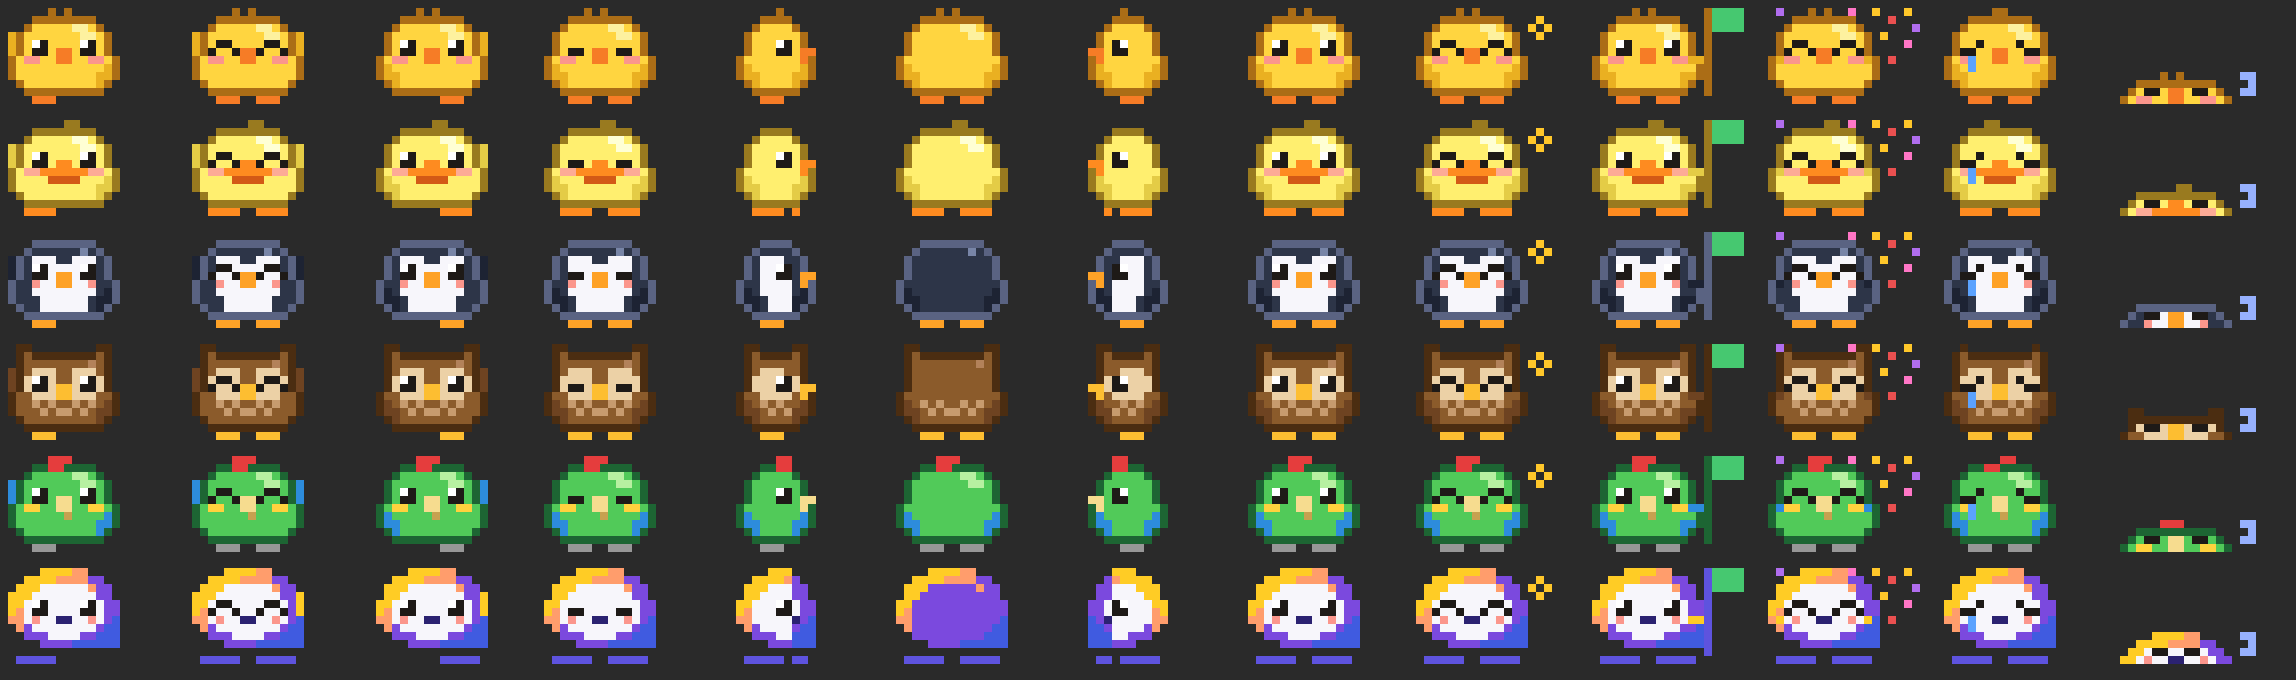
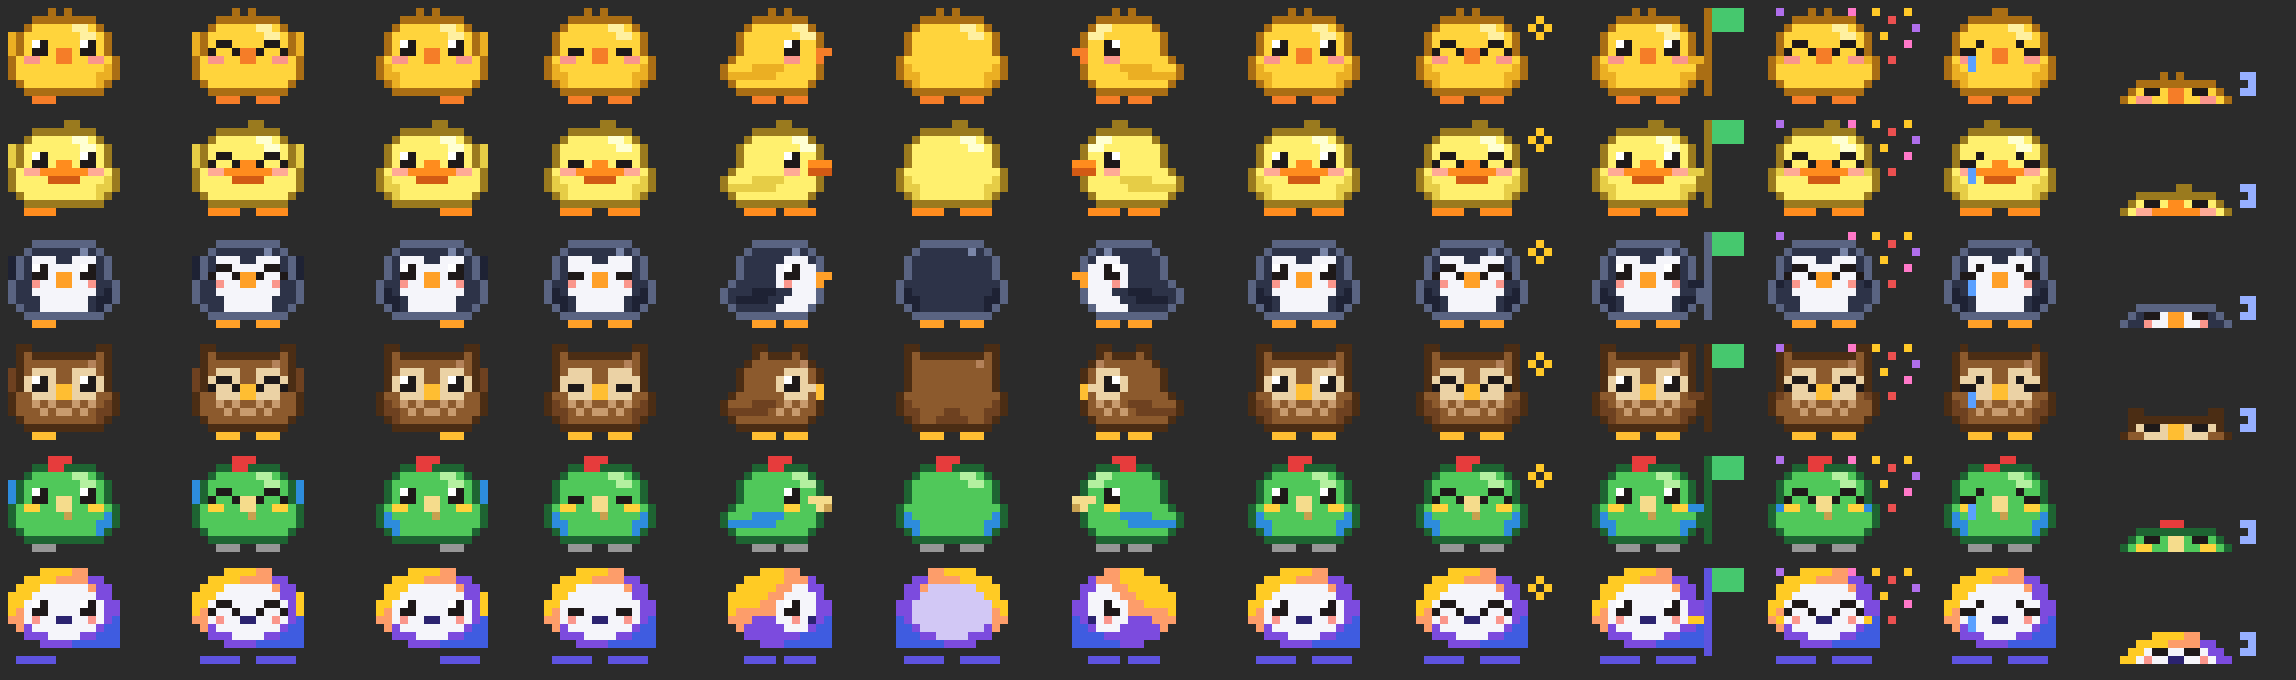
转圈改用手画的侧身和背面

diff --git a/hooks/sprites.ts b/hooks/sprites.ts
@@ -32,8 +32,10 @@ type Species = {
   body: string
   /** 难过时替换第 0 行（呆毛耷拉） */
   sadTop?: string
-  /** 脸是平的、没有尖嘴：侧身时嘴画在脸里，不伸出去 */
-  flatFace?: boolean
+  /** 转圈时的侧身（朝右），12 行 × 14 列；朝左的那一面镜像得到 */
+  side: string[]
+  /** 转圈时的背面；不画就用底图抹掉五官、脸换成身体色 */
+  back?: string[]
   palette: Record<string, number>
 }
 
@@ -71,6 +73,20 @@ export const SPECIES = {
       '.DYKKYAAYKKYD.',
       'DYPPYYAAYYPPYD',
     ],
+    side: [
+      '......D.D.....',
+      '....DDDDDDD...',
+      '...DYYYYYLLD..',
+      '..DYYYYYYYLLD.',
+      '..DYYYYYHKYYD.',
+      '..DYYYYYKKYYAA', // 喙伸出去
+      '.DYYYYYYPPYYA.',
+      'DYYYEEEEYYYYD.', // 翅膀贴在身体侧面
+      'DEEEEEEYYYYYD.',
+      '.DYYYYYYYYYD..',
+      '..DDDDDDDDD...',
+      '....AAA.AAA...',
+    ],
   },
   duck: {
     name: '小鸭',
@@ -106,6 +122,20 @@ export const SPECIES = {
       '.DYKKYAAYKKYD.',
       'DYPPAAAAAAPPYD',
     ],
+    side: [
+      '.......DD.....',
+      '....DDDDDDD...',
+      '...DYYYYYLLD..',
+      '..DYYYYYYYLLD.',
+      '..DYYYYYHKYYD.',
+      '..DYYYYYKKYAAA', // 扁嘴伸出去
+      '.DYYYYYYPPYOOO',
+      'DYYYEEEEYYYYD.',
+      'DEEEEEEYYYYYD.',
+      '.DYYYYYYYYYD..',
+      '..DDDDDDDDD...',
+      '...AAAA.AAAA..',
+    ],
   },
   penguin: {
     name: '企鹅',
@@ -139,6 +169,20 @@ export const SPECIES = {
       '..DDDDDDDDDD..',
       '.DNKKWAAWKKND.',
       'DNNPWWAAWWPNND',
+    ],
+    side: [
+      '..............',
+      '....DDDDDDD...',
+      '...DNNNNNLND..',
+      '..DNNNNNWWWND.',
+      '..DNNNNWHKWWD.',
+      '..DNNNNWKKWWAA',
+      '.DNNNNNWPWWWA.',
+      'DNNNEEENNWWWD.', // 鳍贴在黑背上，白肚皮朝前
+      'DNEEEENNWWWWD.',
+      '.DNNNNNWWWWD..',
+      '..DDDDDDDDD...',
+      '....AAA.AAA...',
     ],
   },
   owl: {
@@ -174,6 +218,35 @@ export const SPECIES = {
       '.DDDDDDDDDDDD.',
       '.DTKKTAATKKTD.',
       'DGGTTTAATTTGGD',
+    ],
+    side: [
+      '....DD...DD...',
+      '....DGDDDGD...',
+      '...DGGGGGGLD..',
+      '..DGGGGGTTTGD.',
+      '..DGGGGTHKTGD.', // 脸盘只露一半
+      '..DGGGGTKKTTA.',
+      '.DGGGGGGTTTGA.',
+      'DGGGEEEGVGVGD.',
+      'DEEEEEGVGVGGD.',
+      '.DGGGGGGGGGD..',
+      '..DDDDDDDDD...',
+      '....AAA.AAA...',
+    ],
+    // 背面没有脸盘和胸前斑点，底下露出尾羽
+    back: [
+      '.DD........DD.',
+      '.DGDDDDDDDDGD.',
+      '.DGGGGGGGGLGD.',
+      '.DGGGGGGGGGGD.',
+      '.DGGGGGGGGGGD.',
+      '.DGGGGGGGGGGD.',
+      'DGGGGGGGGGGGGD',
+      'DEGGGGGGGGGGED',
+      'DEEGGGEEGGGEED',
+      '.DEGGEEEEGGED.',
+      '..DDDDDDDDDD..',
+      '...AAA..AAA...',
     ],
   },
   parrot: {
@@ -212,12 +285,25 @@ export const SPECIES = {
       '.DGKKGAAGKKGD.',
       'DGPPGGAAGGPPGD',
     ],
+    side: [
+      '......QQQ.....',
+      '....DDQQDDD...',
+      '...DGGGGGLLD..',
+      '..DGGGGGGGLLD.',
+      '..DGGGGGHKGGD.',
+      '..DGGGGGKKGAAA', // 弯钩嘴，尖往下勾
+      '.DGGGGGGPPGGAO',
+      'DGGGEEEEGGGGD.',
+      'DEEEEEEGGGGGD.',
+      '.DGGGGGGGGGD..',
+      '..DDDDDDDDD...',
+      '....XXX.XXX...',
+    ],
   },
   alphaq: {
     name: 'alphaQ',
     face: 'W',
     body: 'U',
-    flatFace: true,
     palette: {
       D: 0x5e53df, // 旗杆
       Y: 0xffcb24, // 黄
@@ -226,6 +312,7 @@ export const SPECIES = {
       V: 0x3f5ce0, // 蓝
       I: 0x5e53df, // 底下的横条，分成两段当脚
       W: 0xf5f5fa, // Q 中间的脸
+      J: 0xd2c8f5, // 背面圆环中间
       E: 0xffcb24, // 能量火花（代替翅膀）
       A: 0x2b2370, // 嘴
       P: 0xfa968c,
@@ -249,6 +336,36 @@ export const SPECIES = {
       '..YYYYOOOOUU..',
       '.YYWKKWWKKWUU.',
       'YYWPWWAAWWPWUU',
+    ],
+    // 侧身：圆环当外壳，白脸只在朝前那边露出一弯
+    side: [
+      '.....YYYOO....',
+      '...YYYYYOOOU..',
+      '..YYYYYOOWWUU.',
+      '.YYYYYOOWWWWU.',
+      '.YYYYOOWHKWWUU',
+      '.YOOOOOWKKWWUU',
+      '.OOOUUUWWPWAUV',
+      '..OUUUUUWWWUVV',
+      '...UUUUUUUVVVV',
+      '.....UUUVVVVVV',
+      '..............',
+      '...IIII.IIII..',
+    ],
+    // 背面：圆环左右翻过来，中间换成浅紫
+    back: [
+      '....OOYYYY....',
+      '..UUOOOOYYYY..',
+      '.UUOJJJJJJYYY.',
+      '.UUJJJJJJJJYY.',
+      'UUJJJJJJJJJJYY',
+      'UUJJJJJJJJJJOY',
+      'VUJJJJJJJJJJOO',
+      'VVUJJJJJJJJUO.',
+      'VVVUUJJJJUUU..',
+      'VVVVVVUUUU....',
+      '..............',
+      '.IIIII..IIIII.',
     ],
   },
 } satisfies Record<Pet, Species>
@@ -316,18 +433,9 @@ const clearFace = (g: string[], to: string) =>
   g.map((row, r) => [...row].map((ch, c) => (isFeature(ch, r, c) ? to : ch)).join(''))
 const mirror = (g: string[]) => g.map(r => [...r].reverse().join(''))
 
-// 背面：五官抹掉，脸也换成身体色
-const back = (s: Species) => clearFace(s.base, s.body).map(r => r.replaceAll(s.face, s.body))
-
-// 侧身（朝右）：去掉中间第 7–10 列压窄成 10 列，五官抹成脸色，在右边画一只眼睛和伸出去的嘴
-const SIDE_EYE: Px[] = [[4, 5, 'H'], [4, 6, 'K'], [5, 5, 'K'], [5, 6, 'K']]
-const SIDE_BEAK: Px[] = [[5, 8, 'A'], [5, 9, 'A'], [6, 8, 'A']]
-const SIDE_MOUTH: Px[] = [[6, 7, 'A']]
-const side = (s: Species) =>
-  paint(
-    clearFace(s.base, s.face).map(r => r.slice(0, 7) + r.slice(11)),
-    [...SIDE_EYE, ...(s.flatFace ? SIDE_MOUTH : SIDE_BEAK)],
-  )
+// 背面：没手画就把五官抹掉，脸也换成身体色
+const back = (s: Species) =>
+  s.back ?? clearFace(s.base, s.body).map(r => r.replaceAll(s.face, s.body))
 
 // ---------- 道具 ----------
 
@@ -369,10 +477,10 @@ function grids(s: Species): Record<Pose, string[]> {
     dance2: sway(build(s.base, [...hideWings(s), ...ARM_UP_LEFT, ...ARM_UP_RIGHT, ...happy(s.face)]), 1),
     dance3: sway(build(s.base, [...hideRightWing(s), ...ARM_UP_RIGHT, ...LIFT_LEFT]), 2),
     dance4: sway(build(s.base, blink(s.face)), 1),
-    // 侧身、背面、另一侧、正面；侧身只有 10 列宽，多挪 2 列对准身体中间
-    spin1: sway(side(s), 3),
+    // 侧身、背面、另一侧、正面
+    spin1: sway(s.side, 1),
     spin2: sway(back(s), 1),
-    spin3: sway(mirror(side(s)), 3),
+    spin3: sway(mirror(s.side), 1),
     spin4: sway(s.base, 1),
     done: build(s.base, [...happy(s.face), ...SPARKLE]),
     sleep: build(s.base, [...blink(s.face), ...ZZZ]),

diff --git a/README.md b/README.md
@@ -97,12 +97,12 @@ claude --plugin-dir .
 
 ### 添加新宠物
 
-宠物都在 `hooks/sprites.ts` 的 `SPECIES` 里。每种宠物只画一张 12 行 × 14 列的底图和一张 4 行的迷你图（睡觉用），眨眼、表情、翅膀、举旗、跳舞等造型由共用规则按固定坐标改像素生成，所以底图要守同一套布局：
+宠物都在 `hooks/sprites.ts` 的 `SPECIES` 里。每种宠物画一张 12 行 × 14 列的底图、一张同样大小的侧身图（`side`，朝右，转圈时用，朝左那面自动镜像）和一张 4 行的迷你图（睡觉用）；背面（`back`）可选，不画就用底图抹掉五官生成。眨眼、表情、翅膀、举旗、跳舞等造型由共用规则按固定坐标改像素生成，所以底图要守同一套布局：
 
 - 眼睛在第 4、5 行的第 3–4 列和第 9–10 列（第 4 行是 `HK`，第 5 行是 `KK`）
 - 翅膀只用 `E`，在第 7–9 行左右两侧
-- `face` 是眼睛周围的颜色，`body` 是收起翅膀后补的颜色（转到背面时脸也换成它），`sadTop`（可选）是难过时替换的第 0 行，`flatFace`（可选）表示没有尖嘴，侧身时嘴不伸出去
-- 嘴用 `A`，放在第 4–7 行的第 4–9 列（转圈时按这个位置抹掉五官）
+- `face` 是眼睛周围的颜色，`body` 是收起翅膀后补的颜色（转到背面时脸也换成它），`sadTop`（可选）是难过时替换的第 0 行
+- 嘴用 `A`，放在第 4–7 行的第 4–9 列（自动生成背面时按这个位置抹掉五官）
 - 每个字母对应 `palette` 里的一个颜色；`K`、`H`、`B`、`Z`、`F`、`M`、`C`、`R`、`S` 是共用色（眼睛、道具），不要占用
 
 加完后把名字加进 `types/index.d.ts` 的 `Pet` 类型，再在 `hooks/register.tsx` 命令的 `argumentHint` 和本 README 的表里补上。
